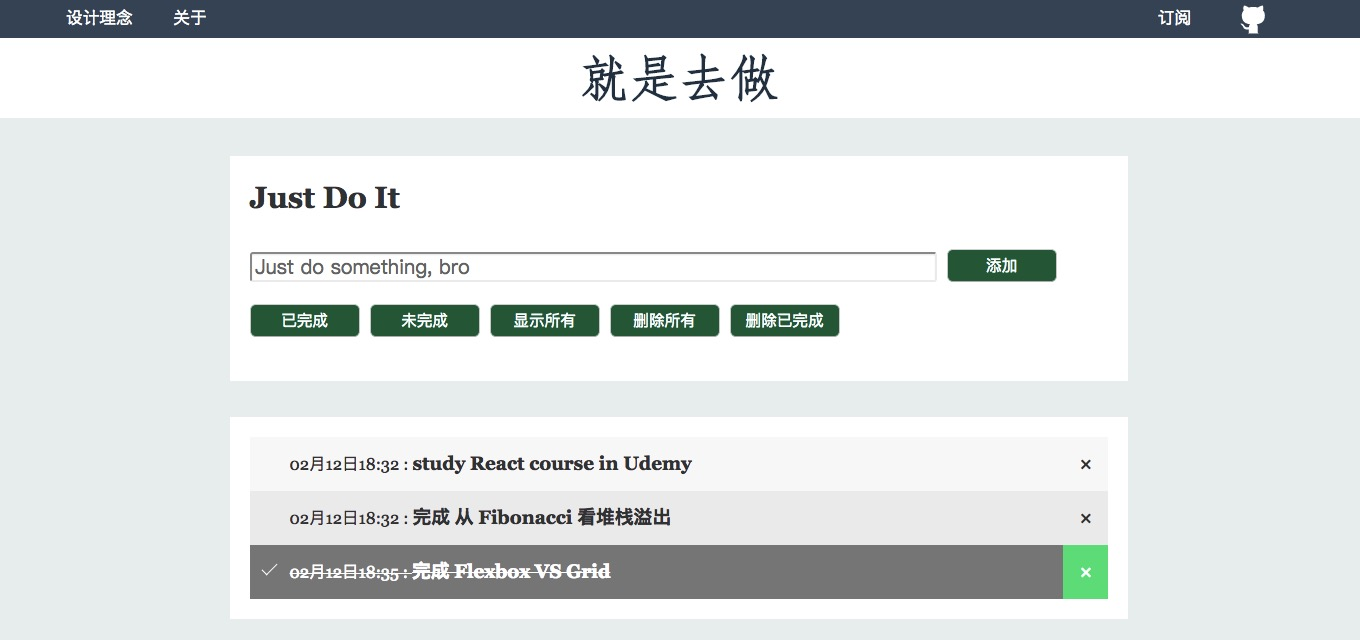
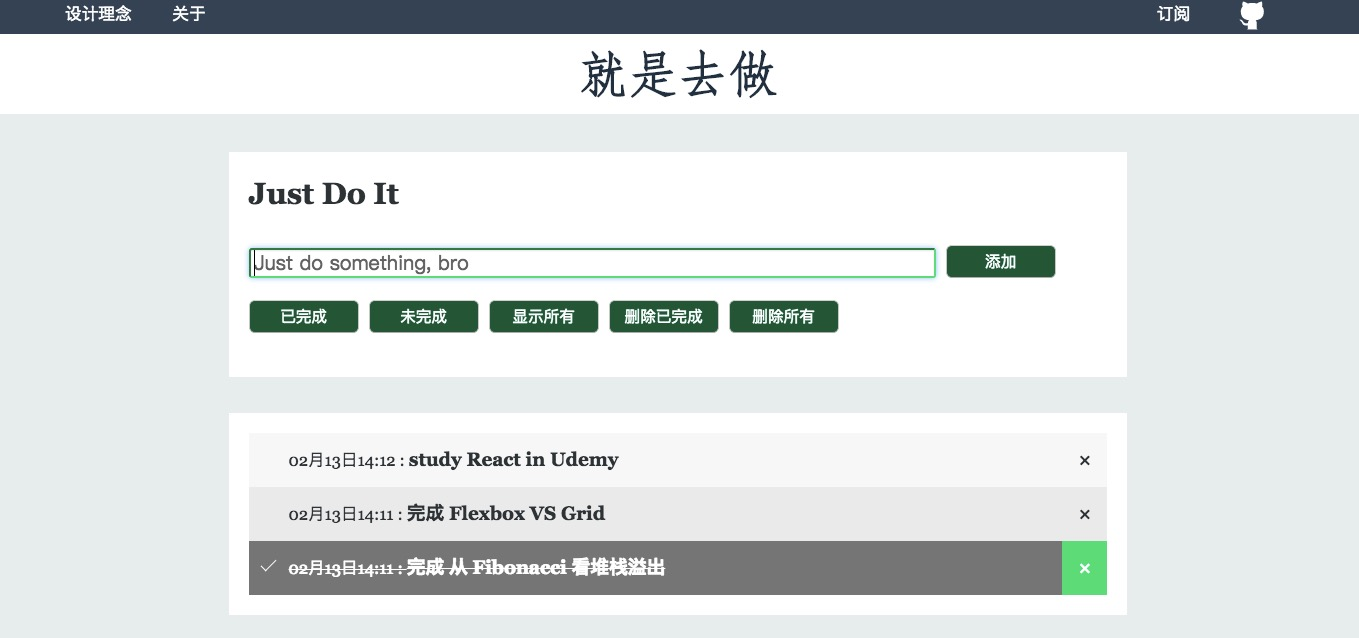
little position modification, by using flex-order

diff --git a/dist/styles/main.min.css b/dist/styles/main.min.css
@@ -1,1 +1,1 @@
-/*! normalize.css v7.0.0 | MIT License | github.com/necolas/normalize.css */html{line-height:1.15;-ms-text-size-adjust:100%;-webkit-text-size-adjust:100%}body{margin:0}article,aside,footer,header,nav,section{display:block}h1{font-size:2em;margin:.67em 0}figcaption,figure,main{display:block}figure{margin:1em 40px}hr{box-sizing:content-box;height:0;overflow:visible}pre{font-family:monospace,monospace;font-size:1em}a{background-color:transparent;-webkit-text-decoration-skip:objects}abbr[title]{border-bottom:none;text-decoration:underline;text-decoration:underline dotted}b,strong{font-weight:inherit}b,strong{font-weight:bolder}code,kbd,samp{font-family:monospace,monospace;font-size:1em}dfn{font-style:italic}mark{background-color:#ff0;color:#000}small{font-size:80%}sub,sup{font-size:75%;line-height:0;position:relative;vertical-align:baseline}sub{bottom:-.25em}sup{top:-.5em}audio,video{display:inline-block}audio:not([controls]){display:none;height:0}img{border-style:none}svg:not(:root){overflow:hidden}button,input,optgroup,select,textarea{font-family:sans-serif;font-size:100%;line-height:1.15;margin:0}button,input{overflow:visible}button,select{text-transform:none}[type=reset],[type=submit],button,html [type=button]{-webkit-appearance:button}[type=button]::-moz-focus-inner,[type=reset]::-moz-focus-inner,[type=submit]::-moz-focus-inner,button::-moz-focus-inner{border-style:none;padding:0}[type=button]:-moz-focusring,[type=reset]:-moz-focusring,[type=submit]:-moz-focusring,button:-moz-focusring{outline:1px dotted ButtonText}fieldset{padding:.35em .75em .625em}legend{box-sizing:border-box;color:inherit;display:table;max-width:100%;padding:0;white-space:normal}progress{display:inline-block;vertical-align:baseline}textarea{overflow:auto}[type=checkbox],[type=radio]{box-sizing:border-box;padding:0}[type=number]::-webkit-inner-spin-button,[type=number]::-webkit-outer-spin-button{height:auto}[type=search]{-webkit-appearance:textfield;outline-offset:-2px}[type=search]::-webkit-search-cancel-button,[type=search]::-webkit-search-decoration{-webkit-appearance:none}::-webkit-file-upload-button{-webkit-appearance:button;font:inherit}details,menu{display:block}summary{display:list-item}canvas{display:inline-block}template{display:none}[hidden]{display:none}html{font-size:62.5%;height:100%;-webkit-box-sizing:border-box;box-sizing:border-box}*,:after,:before{-webkit-box-sizing:inherit;box-sizing:inherit}.clearfix::after{content:"";display:table;clear:both}body{height:100%;font-family:Georgia,'Source Han Sans CN','Xin Gothic','Hiragino Sans GB','Microsoft YaHei',sans-serif;font-size:1.6rem;line-height:1.6;color:#3a4145;background:#ecf0f1}a{text-decoration:none;color:#2c3e50;-webkit-transition:color .36s;transition:color .36s}a:hover{color:#0d8}p{margin:0}header{height:3.8rem;line-height:3.8rem;background-color:#456;color:#fff;position:fixed;top:0;z-index:100;width:100%;padding-bottom:11.8rem}.github-corner{top:calc((3.8rem - 43px)/ 2)}nav a{font-size:1.66rem;color:#fff;border-radius:.6rem;-webkit-transition:background-color .66s;transition:background-color .66s}nav a:hover{background-color:#0d8;color:#fff}.design{float:left;margin-left:5%}.about{float:left;margin-left:3%}.subscribe{float:right;margin-right:calc(6rem + 8%)}.github-corner svg{-webkit-transform:rotate(-45deg);transform:rotate(-45deg);position:absolute;top:-.36rem;border:0;right:5%}.page-title{margin-left:auto;margin-right:auto;font-family:STFangsong,"Songti TC",simsun,Arial,serif;font-weight:700;text-align:center;background-color:#fff;height:8rem}.page-title a{line-height:8rem;font-size:5rem;-webkit-transition:color .88s;transition:color .88s}footer{height:6.5rem;padding:1rem 3.6rem 1.6rem 1rem;line-height:1.5}main{padding-top:15.6rem;min-height:calc(100% - 7.5rem)}.operate-area{overflow-y:scroll;margin-left:auto;margin-right:auto;padding:.8rem 2rem .66rem;width:66%;height:22.46rem;font-size:2rem;word-wrap:break-word;background-color:#fff}h2{margin-top:1rem}.add-area{display:-webkit-box;display:-ms-flexbox;display:flex;-webkit-box-align:end;-ms-flex-align:end;align-items:flex-end;margin-bottom:2rem}#input{display:inline-block;width:80%;font-size:2rem;height:3rem;padding:.36rem;margin-right:1rem;border-radius:.3rem;-webkit-box-shadow:inset 0 .1rem .1rem rgba(0,0,0,.075);box-shadow:inset 0 .1rem .1rem rgba(0,0,0,.075)}#input:focus{border-color:#0d8;outline:0;-webkit-box-shadow:inset 0 1px 1px rgba(0,0,0,.075),0 0 8px rgba(102,175,233,.6);box-shadow:inset 0 1px 1px rgba(0,0,0,.075),0 0 8px rgba(102,175,233,.6)}button{cursor:pointer;padding:.8rem 0;font-size:1.56rem;line-height:1;width:11rem;margin-right:1rem;margin-top:.2rem;border-radius:.6rem;color:#fff;background-color:#164;-webkit-transition:background-color .66s;transition:background-color .66s}button:hover{background-color:#0d8}.buttons{display:-webkit-box;display:-ms-flexbox;display:flex;-webkit-box-orient:horizontal;-webkit-box-direction:normal;-ms-flex-direction:row;flex-direction:row;-webkit-box-align:center;-ms-flex-align:center;align-items:center;-ms-flex-wrap:wrap;flex-wrap:wrap}ul{list-style:none;margin:3.6rem auto 1rem;padding:2rem;width:66%;background-color:#fff}li{cursor:pointer;padding:1.2rem .8rem 1.2rem 4rem;overflow-x:scroll;background:#eee;font-size:1.66rem;position:relative;-webkit-transition:.2s;transition:.2s;-webkit-user-select:none;-moz-user-select:none;-ms-user-select:none;user-select:none}li:hover{background:#ddd}li span{font-size:1.88rem;font-weight:700}li:nth-child(odd){background:#f9f9f9}li.finished{background:#888;color:#fff;text-decoration:line-through}li.finished::before{content:'';position:absolute;border-color:#fff;border-style:solid;border-width:0 .1rem .1rem 0;top:1.5rem;left:1.6rem;-webkit-transform:rotate(45deg);transform:rotate(45deg);height:1.5rem;width:.7rem}li.aphorism{cursor:default;font-size:2rem;text-align:center;color:#456;font-style:italic}.close{position:absolute;right:0;top:0;padding:1.2rem 1.6rem 1.2rem 1.6rem}.close:hover{background-color:#0d8;color:#fff}@media (max-width:415px){header{padding-bottom:9.8rem}.page-title{height:6rem}.page-title a{font-weight:400;line-height:6rem;font-size:3.6rem}main{padding-top:12.6rem}.operate-area{height:25.46rem}.add-area{margin-bottom:1.2rem}#input{width:110%}#add{width:6rem;margin-right:0}.buttons{-webkit-box-pack:justify;-ms-flex-pack:justify;justify-content:space-between}button{font-size:1.36rem;margin-right:0;margin-top:.5rem;width:48%}#showClearDone{width:100%}.operate-area,ul{width:86%}.subscribe{margin-right:8rem}.github-corner svg{right:.5rem}li{padding-left:1rem}li.aphorism{font-size:1.8rem}}
+/*! normalize.css v7.0.0 | MIT License | github.com/necolas/normalize.css */html{line-height:1.15;-ms-text-size-adjust:100%;-webkit-text-size-adjust:100%}body{margin:0}article,aside,footer,header,nav,section{display:block}h1{font-size:2em;margin:.67em 0}figcaption,figure,main{display:block}figure{margin:1em 40px}hr{box-sizing:content-box;height:0;overflow:visible}pre{font-family:monospace,monospace;font-size:1em}a{background-color:transparent;-webkit-text-decoration-skip:objects}abbr[title]{border-bottom:none;text-decoration:underline;text-decoration:underline dotted}b,strong{font-weight:inherit}b,strong{font-weight:bolder}code,kbd,samp{font-family:monospace,monospace;font-size:1em}dfn{font-style:italic}mark{background-color:#ff0;color:#000}small{font-size:80%}sub,sup{font-size:75%;line-height:0;position:relative;vertical-align:baseline}sub{bottom:-.25em}sup{top:-.5em}audio,video{display:inline-block}audio:not([controls]){display:none;height:0}img{border-style:none}svg:not(:root){overflow:hidden}button,input,optgroup,select,textarea{font-family:sans-serif;font-size:100%;line-height:1.15;margin:0}button,input{overflow:visible}button,select{text-transform:none}[type=reset],[type=submit],button,html [type=button]{-webkit-appearance:button}[type=button]::-moz-focus-inner,[type=reset]::-moz-focus-inner,[type=submit]::-moz-focus-inner,button::-moz-focus-inner{border-style:none;padding:0}[type=button]:-moz-focusring,[type=reset]:-moz-focusring,[type=submit]:-moz-focusring,button:-moz-focusring{outline:1px dotted ButtonText}fieldset{padding:.35em .75em .625em}legend{box-sizing:border-box;color:inherit;display:table;max-width:100%;padding:0;white-space:normal}progress{display:inline-block;vertical-align:baseline}textarea{overflow:auto}[type=checkbox],[type=radio]{box-sizing:border-box;padding:0}[type=number]::-webkit-inner-spin-button,[type=number]::-webkit-outer-spin-button{height:auto}[type=search]{-webkit-appearance:textfield;outline-offset:-2px}[type=search]::-webkit-search-cancel-button,[type=search]::-webkit-search-decoration{-webkit-appearance:none}::-webkit-file-upload-button{-webkit-appearance:button;font:inherit}details,menu{display:block}summary{display:list-item}canvas{display:inline-block}template{display:none}[hidden]{display:none}html{font-size:62.5%;height:100%;-webkit-box-sizing:border-box;box-sizing:border-box}*,:after,:before{-webkit-box-sizing:inherit;box-sizing:inherit}.clearfix::after{content:"";display:table;clear:both}body{height:100%;font-family:Georgia,'Source Han Sans CN','Xin Gothic','Hiragino Sans GB','Microsoft YaHei',sans-serif;font-size:1.6rem;line-height:1.6;color:#3a4145;background:#ecf0f1}a{text-decoration:none;color:#2c3e50;-webkit-transition:color .36s;transition:color .36s}a:hover{color:#0d8}p{margin:0}header{height:3.8rem;line-height:3.8rem;background-color:#456;color:#fff;position:fixed;top:0;z-index:100;width:100%;padding-bottom:11.8rem}.github-corner{top:calc((3.8rem - 43px)/ 2)}nav a{font-size:1.66rem;color:#fff;border-radius:.6rem;-webkit-transition:background-color .66s;transition:background-color .66s}nav a:hover{background-color:#0d8;color:#fff}.design{float:left;margin-left:5%}.about{float:left;margin-left:3%}.subscribe{float:right;margin-right:calc(6rem + 8%)}.github-corner svg{-webkit-transform:rotate(-45deg);transform:rotate(-45deg);position:absolute;top:-.36rem;border:0;right:5%}.page-title{margin-left:auto;margin-right:auto;font-family:STFangsong,"Songti TC",simsun,Arial,serif;font-weight:700;text-align:center;background-color:#fff;height:8rem}.page-title a{line-height:8rem;font-size:5rem;-webkit-transition:color .88s;transition:color .88s}footer{height:6.5rem;padding:1rem 3.6rem 1.6rem 1rem;line-height:1.5}main{padding-top:15.6rem;min-height:calc(100% - 7.5rem)}.operate-area{overflow-y:scroll;margin-left:auto;margin-right:auto;padding:.8rem 2rem .66rem;width:66%;height:22.46rem;font-size:2rem;word-wrap:break-word;background-color:#fff}h2{margin-top:1rem}.add-area{display:-webkit-box;display:-ms-flexbox;display:flex;-webkit-box-align:end;-ms-flex-align:end;align-items:flex-end;margin-bottom:2rem}#input{display:inline-block;width:80%;font-size:2rem;height:3rem;padding:.36rem;margin-right:1rem;border-radius:.3rem;-webkit-box-shadow:inset 0 .1rem .1rem rgba(0,0,0,.075);box-shadow:inset 0 .1rem .1rem rgba(0,0,0,.075)}#input:focus{border-color:#0d8;outline:0;-webkit-box-shadow:inset 0 1px 1px rgba(0,0,0,.075),0 0 8px rgba(102,175,233,.6);box-shadow:inset 0 1px 1px rgba(0,0,0,.075),0 0 8px rgba(102,175,233,.6)}button{cursor:pointer;padding:.8rem 0;font-size:1.56rem;line-height:1;width:11rem;margin-right:1rem;margin-top:.2rem;border-radius:.6rem;color:#fff;background-color:#164;-webkit-transition:background-color .66s;transition:background-color .66s}button:hover{background-color:#0d8}.buttons{display:-webkit-box;display:-ms-flexbox;display:flex;-webkit-box-orient:horizontal;-webkit-box-direction:normal;-ms-flex-direction:row;flex-direction:row;-webkit-box-align:center;-ms-flex-align:center;align-items:center;-ms-flex-wrap:wrap;flex-wrap:wrap}ul{list-style:none;margin:3.6rem auto 1rem;padding:2rem;width:66%;background-color:#fff}li{cursor:pointer;padding:1.2rem .8rem 1.2rem 4rem;overflow-x:scroll;background:#eee;font-size:1.66rem;position:relative;-webkit-transition:.2s;transition:.2s;-webkit-user-select:none;-moz-user-select:none;-ms-user-select:none;user-select:none}li:hover{background:#ddd}li span{font-size:1.88rem;font-weight:700}li:nth-child(odd){background:#f9f9f9}li.finished{background:#888;color:#fff;text-decoration:line-through}li.finished::before{content:'';position:absolute;border-color:#fff;border-style:solid;border-width:0 .1rem .1rem 0;top:1.5rem;left:1.6rem;-webkit-transform:rotate(45deg);transform:rotate(45deg);height:1.5rem;width:.7rem}li.aphorism{cursor:default;font-size:2rem;text-align:center;color:#456;font-style:italic}.close{position:absolute;right:0;top:0;padding:1.2rem 1.6rem 1.2rem 1.6rem}.close:hover{background-color:#0d8;color:#fff}@media (max-width:415px){header{padding-bottom:9.8rem}.page-title{height:6rem}.page-title a{font-weight:400;line-height:6rem;font-size:3.6rem}main{padding-top:12.6rem}.operate-area{height:25.46rem}.add-area{margin-bottom:1.2rem}#input{width:110%}#add{width:6rem;margin-right:0}.buttons{-webkit-box-pack:justify;-ms-flex-pack:justify;justify-content:space-between}button{font-size:1.36rem;margin-right:0;margin-top:.5rem;width:48%}#showAll{-webkit-box-ordinal-group:2;-ms-flex-order:1;order:1;width:100%}.operate-area,ul{width:86%}.subscribe{margin-right:8rem}.github-corner svg{right:.5rem}li{padding-left:1rem}li.aphorism{font-size:1.8rem}}

diff --git a/index.html b/index.html
@@ -30,8 +30,8 @@
           <button id="showDone">已完成</button>
           <button id="showTodo">未完成</button>
           <button id="showAll">显示所有</button>
-          <button id="showClear">删除所有</button>
           <button id="showClearDone">删除已完成</button>
+          <button id="showClear">删除所有</button>
         </div>
       </div>
 

diff --git a/src/styles/media.css b/src/styles/media.css
@@ -46,7 +46,10 @@
     width: 48%;
 	}
 
-  #showClearDone {
+  #showAll {
+    -webkit-box-ordinal-group: 2;
+        -ms-flex-order: 1;
+            order: 1;
     width: 100%;
   }
 

diff --git a/README.md b/README.md
@@ -22,7 +22,7 @@
 
 ### 主要功能
 
-* 使用 indexedDB 提供存储 todolist item 和随机出现的名言警句（用自己的 [indexeddb-crud](https://www.npmjs.com/package/indexeddb-crud) package 来操作 indexedDB）
+* 使用 indexedDB 提供存储 todolist item 和随机出现的名言警句（用自己的 [indexeddb-crud](https://www.npmjs.com/package/indexeddb-crud) npm package 来操作 indexedDB）
 * 如果用户的浏览器不支持 indexedDB 则自动转换为 without indexedDB mode（[这部分代码利用 lazy load 的方式来加载](https://github.com/RayJune/JustToDo/blob/gh-pages/src/scripts/utlis/lazyLoadWithoutDB.js)）
 * 列表 item 为空则随机出现名言警句
 
@@ -46,7 +46,7 @@
 
 ### 感谢
 
-* [Garrik-Liu的todolist](https://github.com/Garrik-Liu/practises-web/tree/master/cases/12.toDoList)
-* [Liugq5713的todolist](https://github.com/Liugq5713/Todolist)
+* [Garrik-Liu 的 todolist](https://github.com/Garrik-Liu/practises-web/tree/master/cases/12.toDoList)
+* [Liugq5713 的 todolist](https://github.com/Liugq5713/Todolist)
 
 参考/模仿了两位 first commit 的代码，向两位表示感谢：）
